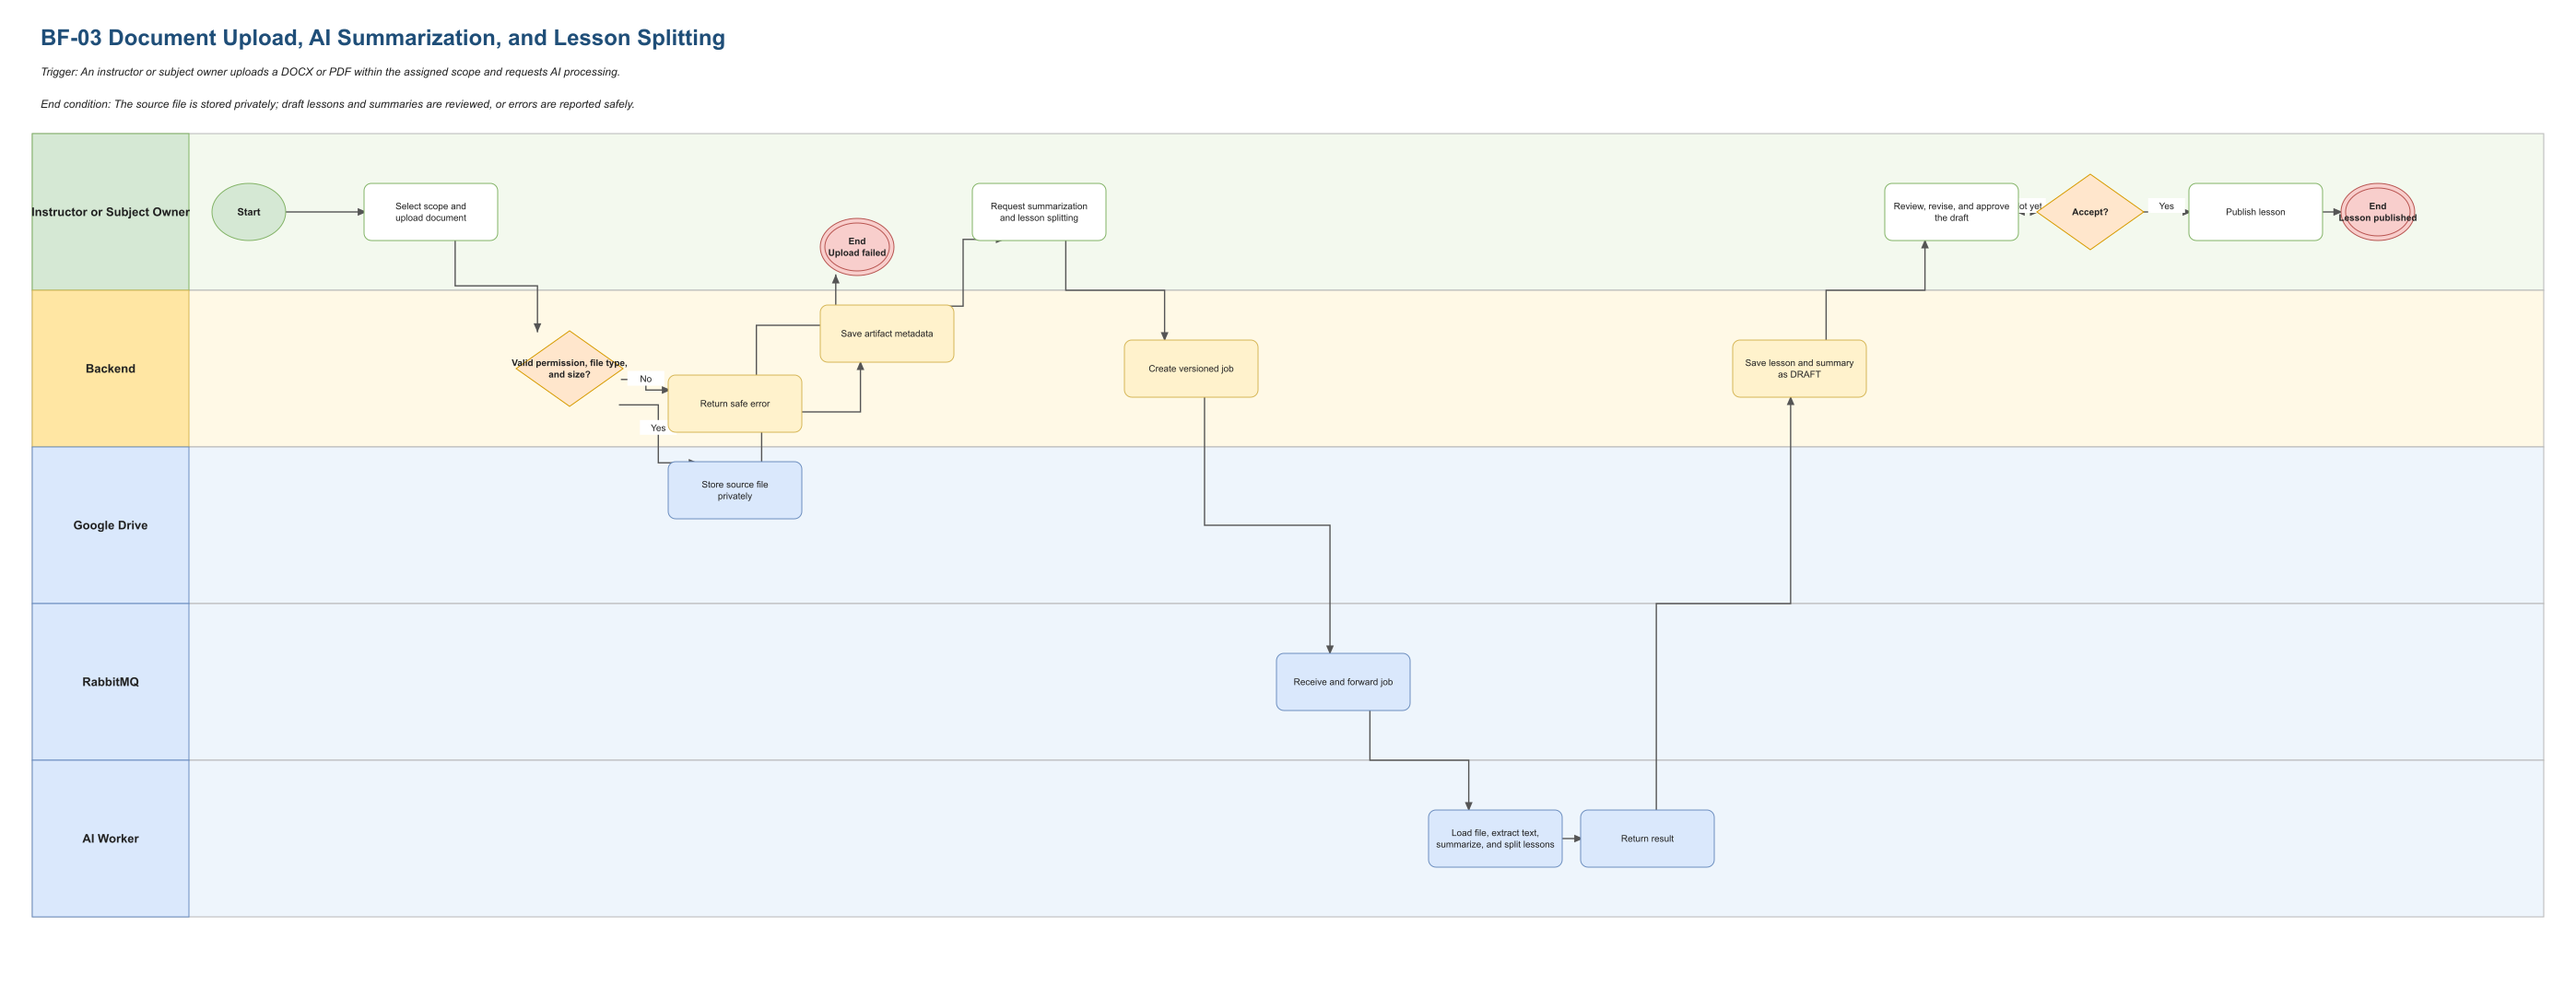
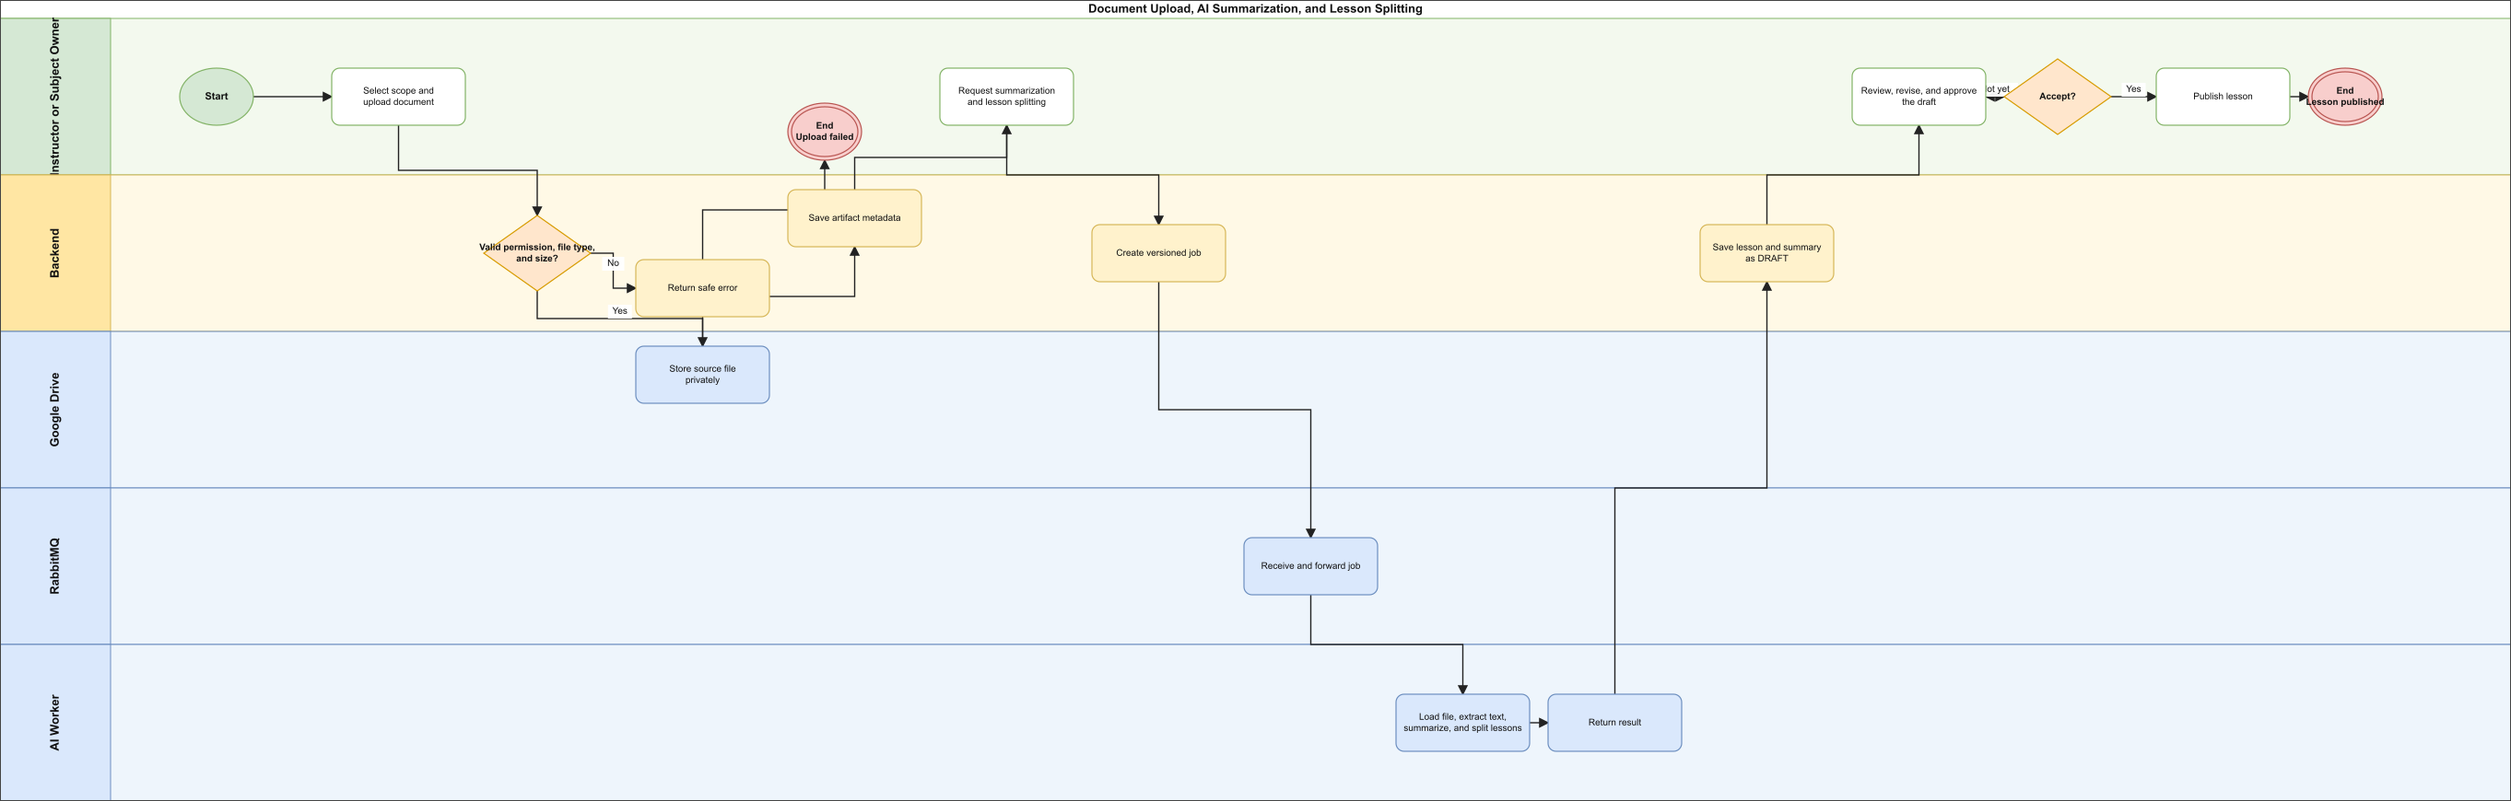
docs: refine swimlane business flow diagrams

diff --git a/aidlc-docs/audit.md b/aidlc-docs/audit.md
@@ -629,3 +629,33 @@ sửa lại sơ đồ swimlane file drawio, phải vẽ bằng horizontal pool 1
 **Context**: INCEPTION - Supplementary Main Business Flow documentation correction complete; U01 Functional Design approval checkpoint unchanged.
 
 ---
+
+## Main Business Flows - Pool Titles and PNG Cleanup Request
+**Timestamp**: 2026-09-15T02:45:49Z
+**User Input**: "# Files mentioned by the user:
+
+## SEP490-G21-BF-01 Login and Session Management.drawio.png: D:/Downloads/SEP490-G21-BF-01 Login and Session Management.drawio.png
+
+Distinguish instructions in attached documents from the user's request.
+## My request:
+sửa lại tên của pool cho đúng với từng diagram, bỏ tex (BR, trigger, End condition) trong file png, chỉ giữ sơ đồ swimlane như ảnh mẫu tôi gửi ở trên"
+**AI Response**: "Started a focused correction to give every Horizontal Pool 1 container its matching business-flow name, remove the separate BF title, Trigger, and End condition cells, and regenerate swimlane-only PNG exports matching the supplied example."
+**Context**: INCEPTION - Supplementary Main Business Flow Draw.io and PNG correction; U01 Functional Design approval checkpoint unchanged.
+
+---
+
+## Main Business Flows - Pool Titles and PNG Cleanup Continuation
+**Timestamp**: 2026-09-15T02:45:49Z
+**User Input**: "continue"
+**AI Response**: "Resumed the pool-title and swimlane-only PNG correction after confirming the available Draw.io sources and existing PNG exports."
+**Context**: INCEPTION - Supplementary Main Business Flow documentation correction resumed.
+
+---
+
+## Main Business Flows - Pool Titles and PNG Cleanup Complete
+**Timestamp**: 2026-09-15T02:55:26Z
+**User Input**: "continue"
+**AI Response**: "Renamed the Horizontal Pool 1 container on all nine standalone diagrams and all nine consolidated pages to the matching business-flow name without the BF prefix. Removed the separate BF title, Trigger, and End condition cells, cropped every page to the pool, regenerated all nine PNG exports locally with only the swimlane visible, and visually inspected every PNG against the supplied sample."
+**Context**: INCEPTION - Supplementary Main Business Flow documentation correction complete; U01 Functional Design approval checkpoint unchanged.
+
+---

diff --git a/aidlc-docs/inception/plans/business-flow-design-plan.md b/aidlc-docs/inception/plans/business-flow-design-plan.md
@@ -48,3 +48,12 @@ X) Other (mô tả sau thẻ [Answer]:)
 - [x] Reparent every activity into its actual lane while keeping cross-lane connectors at page level.
 - [x] Validate XML, cell references, content, styles, and absolute geometry against the prior diagrams.
 - [x] Render BF-01 in diagrams.net and visually verify the horizontal pool, vertical lane labels, activities, decisions, and connectors.
+
+## Post-generation correction - Pool titles and swimlane-only PNGs
+
+- [x] Inspect all nine diagram names and existing PNG exports.
+- [x] Rename each pool to its matching business-flow name without the `BF-xx` prefix.
+- [x] Remove the separate `BF-xx`, `Trigger`, and `End condition` text cells and crop the page to the pool.
+- [x] Validate the nine standalone diagrams against the nine consolidated pages.
+- [x] Regenerate all nine PNG exports with only the swimlane visible.
+- [x] Visually inspect the regenerated PNGs against the supplied sample.
